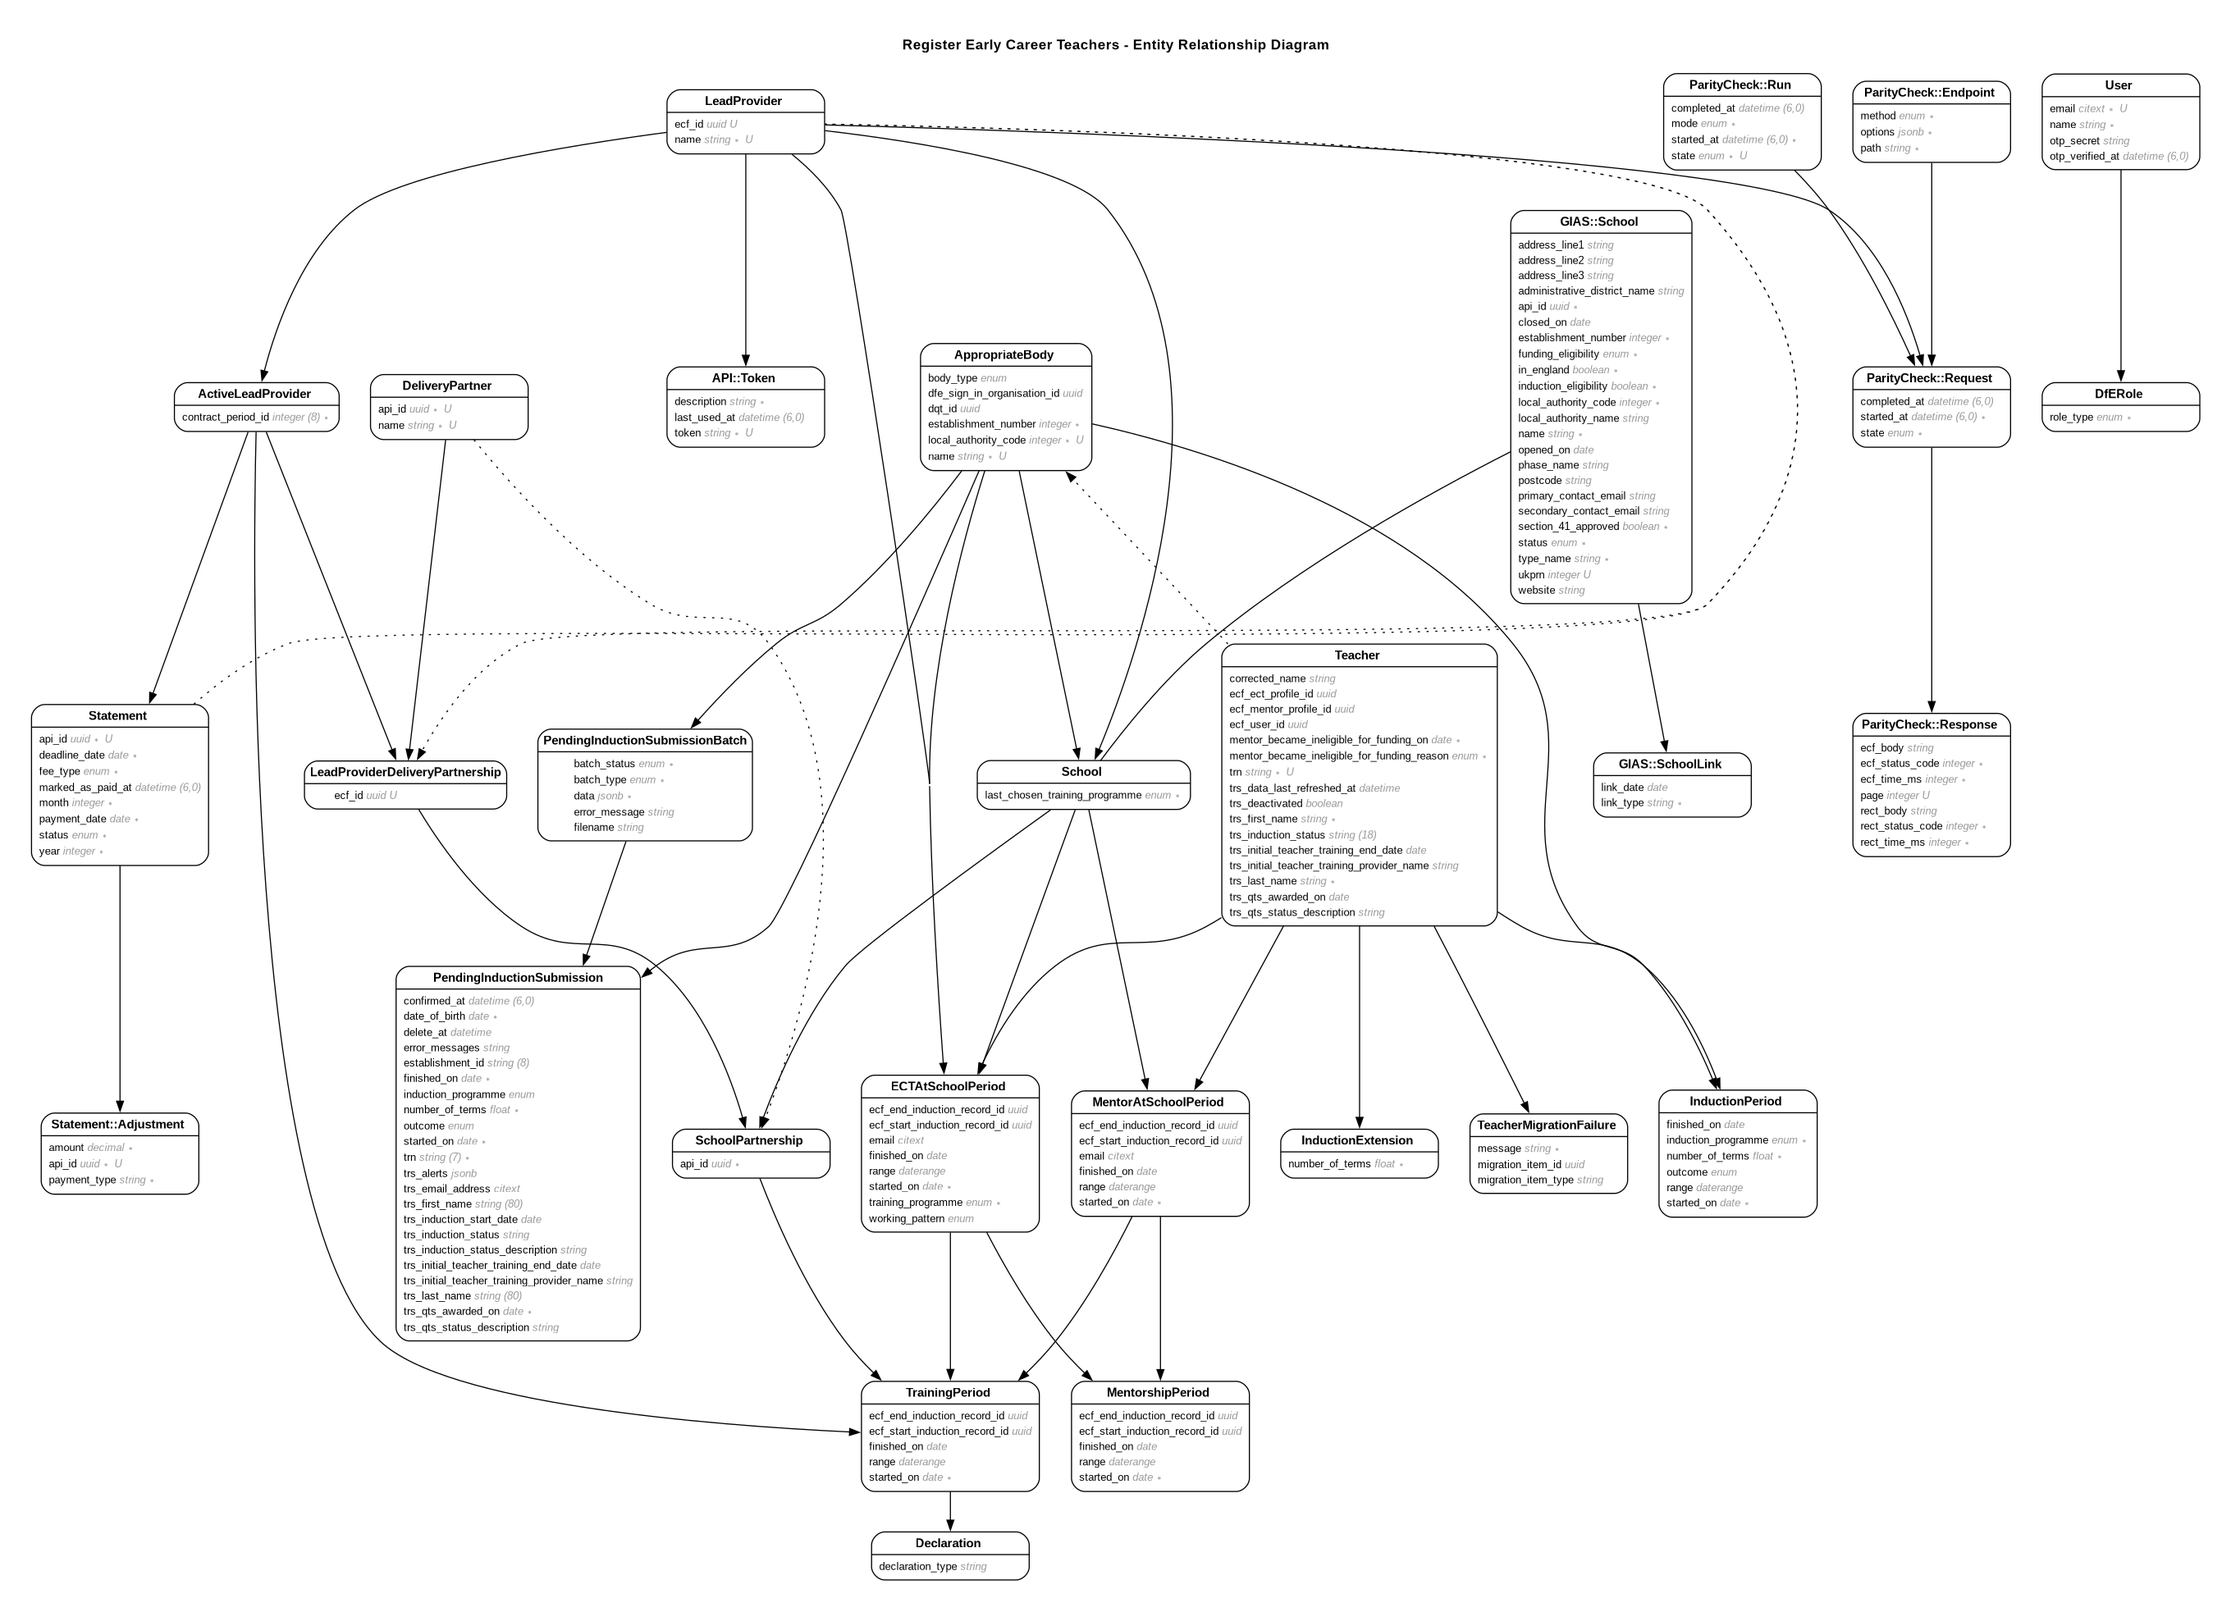
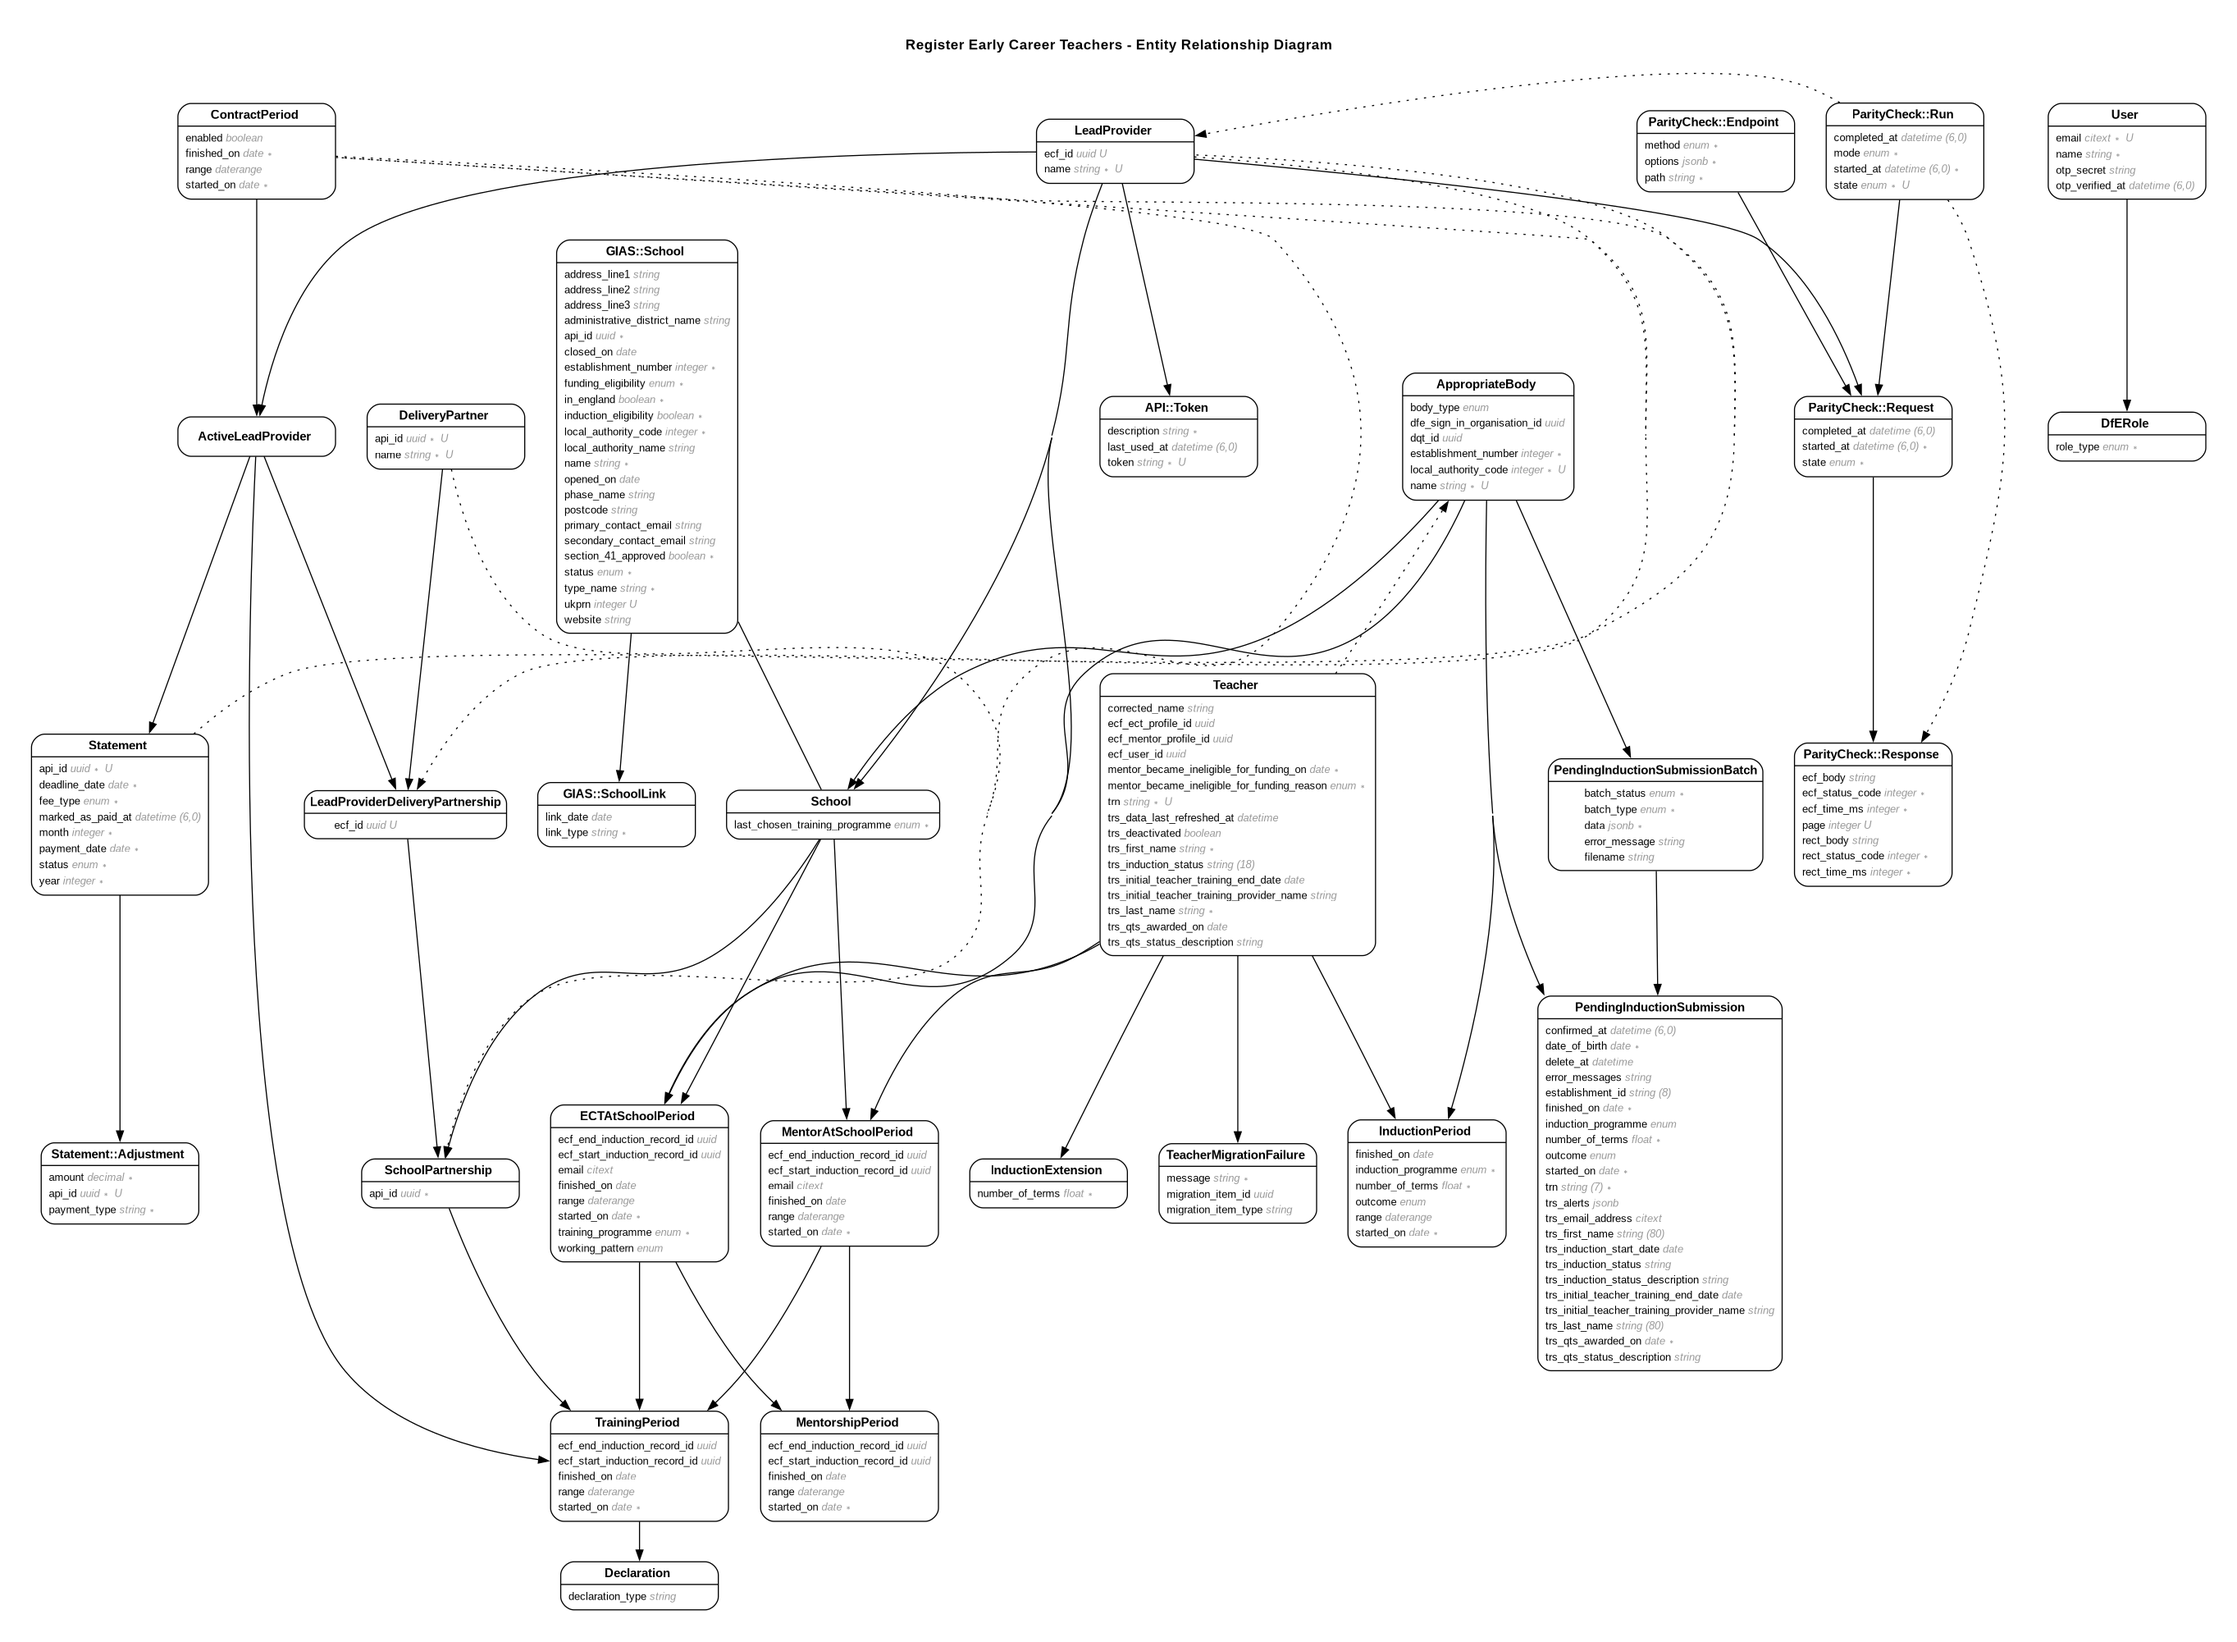
Remove the 'not null' from trs first and last names
TRS doesn't enforce the presence of the teacher's first and last names
but we do. This means we have sync errors when refreshing teacher
details.

This change removes the 'not null' constraint from TRS first and last
name. It needs to drop/recreate the search column because PostgreSQL
won't allow column changes when they're depended on by other fields.

It also removes the 80 character limit. We don't enter this data
ourselves and are reliant on TRS, so just accept what we're given.

diff --git a/db/schema.rb b/db/schema.rb
@@ -654,9 +654,8 @@ ActiveRecord::Schema[8.0].define(version: 2025_07_01_083912) do
     t.datetime "created_at", null: false
     t.datetime "updated_at", null: false
     t.string "trn", null: false
-    t.string "trs_first_name", null: false
-    t.string "trs_last_name", null: false
-    t.virtual "search", type: :tsvector, as: "to_tsvector('unaccented'::regconfig, (((((COALESCE(trs_first_name, ''::character varying))::text || ' '::text) || (COALESCE(trs_last_name, ''::character varying))::text) || ' '::text) || (COALESCE(corrected_name, ''::character varying))::text))", stored: true
+    t.string "trs_first_name"
+    t.string "trs_last_name"
     t.uuid "ecf_user_id"
     t.uuid "ecf_ect_profile_id"
     t.uuid "ecf_mentor_profile_id"
@@ -669,6 +668,7 @@ ActiveRecord::Schema[8.0].define(version: 2025_07_01_083912) do
     t.date "mentor_became_ineligible_for_funding_on"
     t.enum "mentor_became_ineligible_for_funding_reason", enum_type: "mentor_became_ineligible_for_funding_reason"
     t.boolean "trs_deactivated", default: false
+    t.virtual "search", type: :tsvector, as: "to_tsvector('unaccented'::regconfig, (((((COALESCE(trs_first_name, ''::character varying))::text || ' '::text) || (COALESCE(trs_last_name, ''::character varying))::text) || ' '::text) || (COALESCE(corrected_name, ''::character varying))::text))", stored: true
     t.index ["corrected_name"], name: "index_teachers_on_corrected_name"
     t.index ["search"], name: "index_teachers_on_search", using: :gin
     t.index ["trn"], name: "index_teachers_on_trn", unique: true

diff --git a/db/migrate/20250626150847_remove_not_null_from_trs_teacher_names.rb b/db/migrate/20250626150847_remove_not_null_from_trs_teacher_names.rb
@@ -1,0 +1,23 @@
+class RemoveNotNullFromTRSTeacherNames < ActiveRecord::Migration[8.0]
+  # rubocop:disable Rails/BulkChangeTable
+  def up
+    remove_column :teachers, :search, :tsvector, type: :tsvector, as: "to_tsvector('unaccented', #{tsvector_columns})", stored: true
+    change_column :teachers, :trs_first_name, :string, null: true
+    change_column :teachers, :trs_last_name, :string, null: true
+    add_column :teachers, :search, :tsvector, type: :tsvector, as: "to_tsvector('unaccented', #{tsvector_columns})", stored: true
+    add_index :teachers, :search, using: :gin
+  end
+
+  def down
+    remove_column :teachers, :search, :tsvector, type: :tsvector, as: "to_tsvector('unaccented', #{tsvector_columns})", stored: true
+    change_column :teachers, :trs_first_name, :string, null: false, limit: 80
+    change_column :teachers, :trs_last_name, :string, null: false, limit: 80
+    add_column :teachers, :search, :tsvector, type: :tsvector, as: "to_tsvector('unaccented', #{tsvector_columns})", stored: true
+    add_index :teachers, :search, using: :gin
+  end
+
+  def tsvector_columns
+    %w[trs_first_name trs_last_name corrected_name].map { |col| "coalesce(#{col}, '')" }.join(" || ' ' || ")
+  end
+  # rubocop:enable Rails/BulkChangeTable
+end
